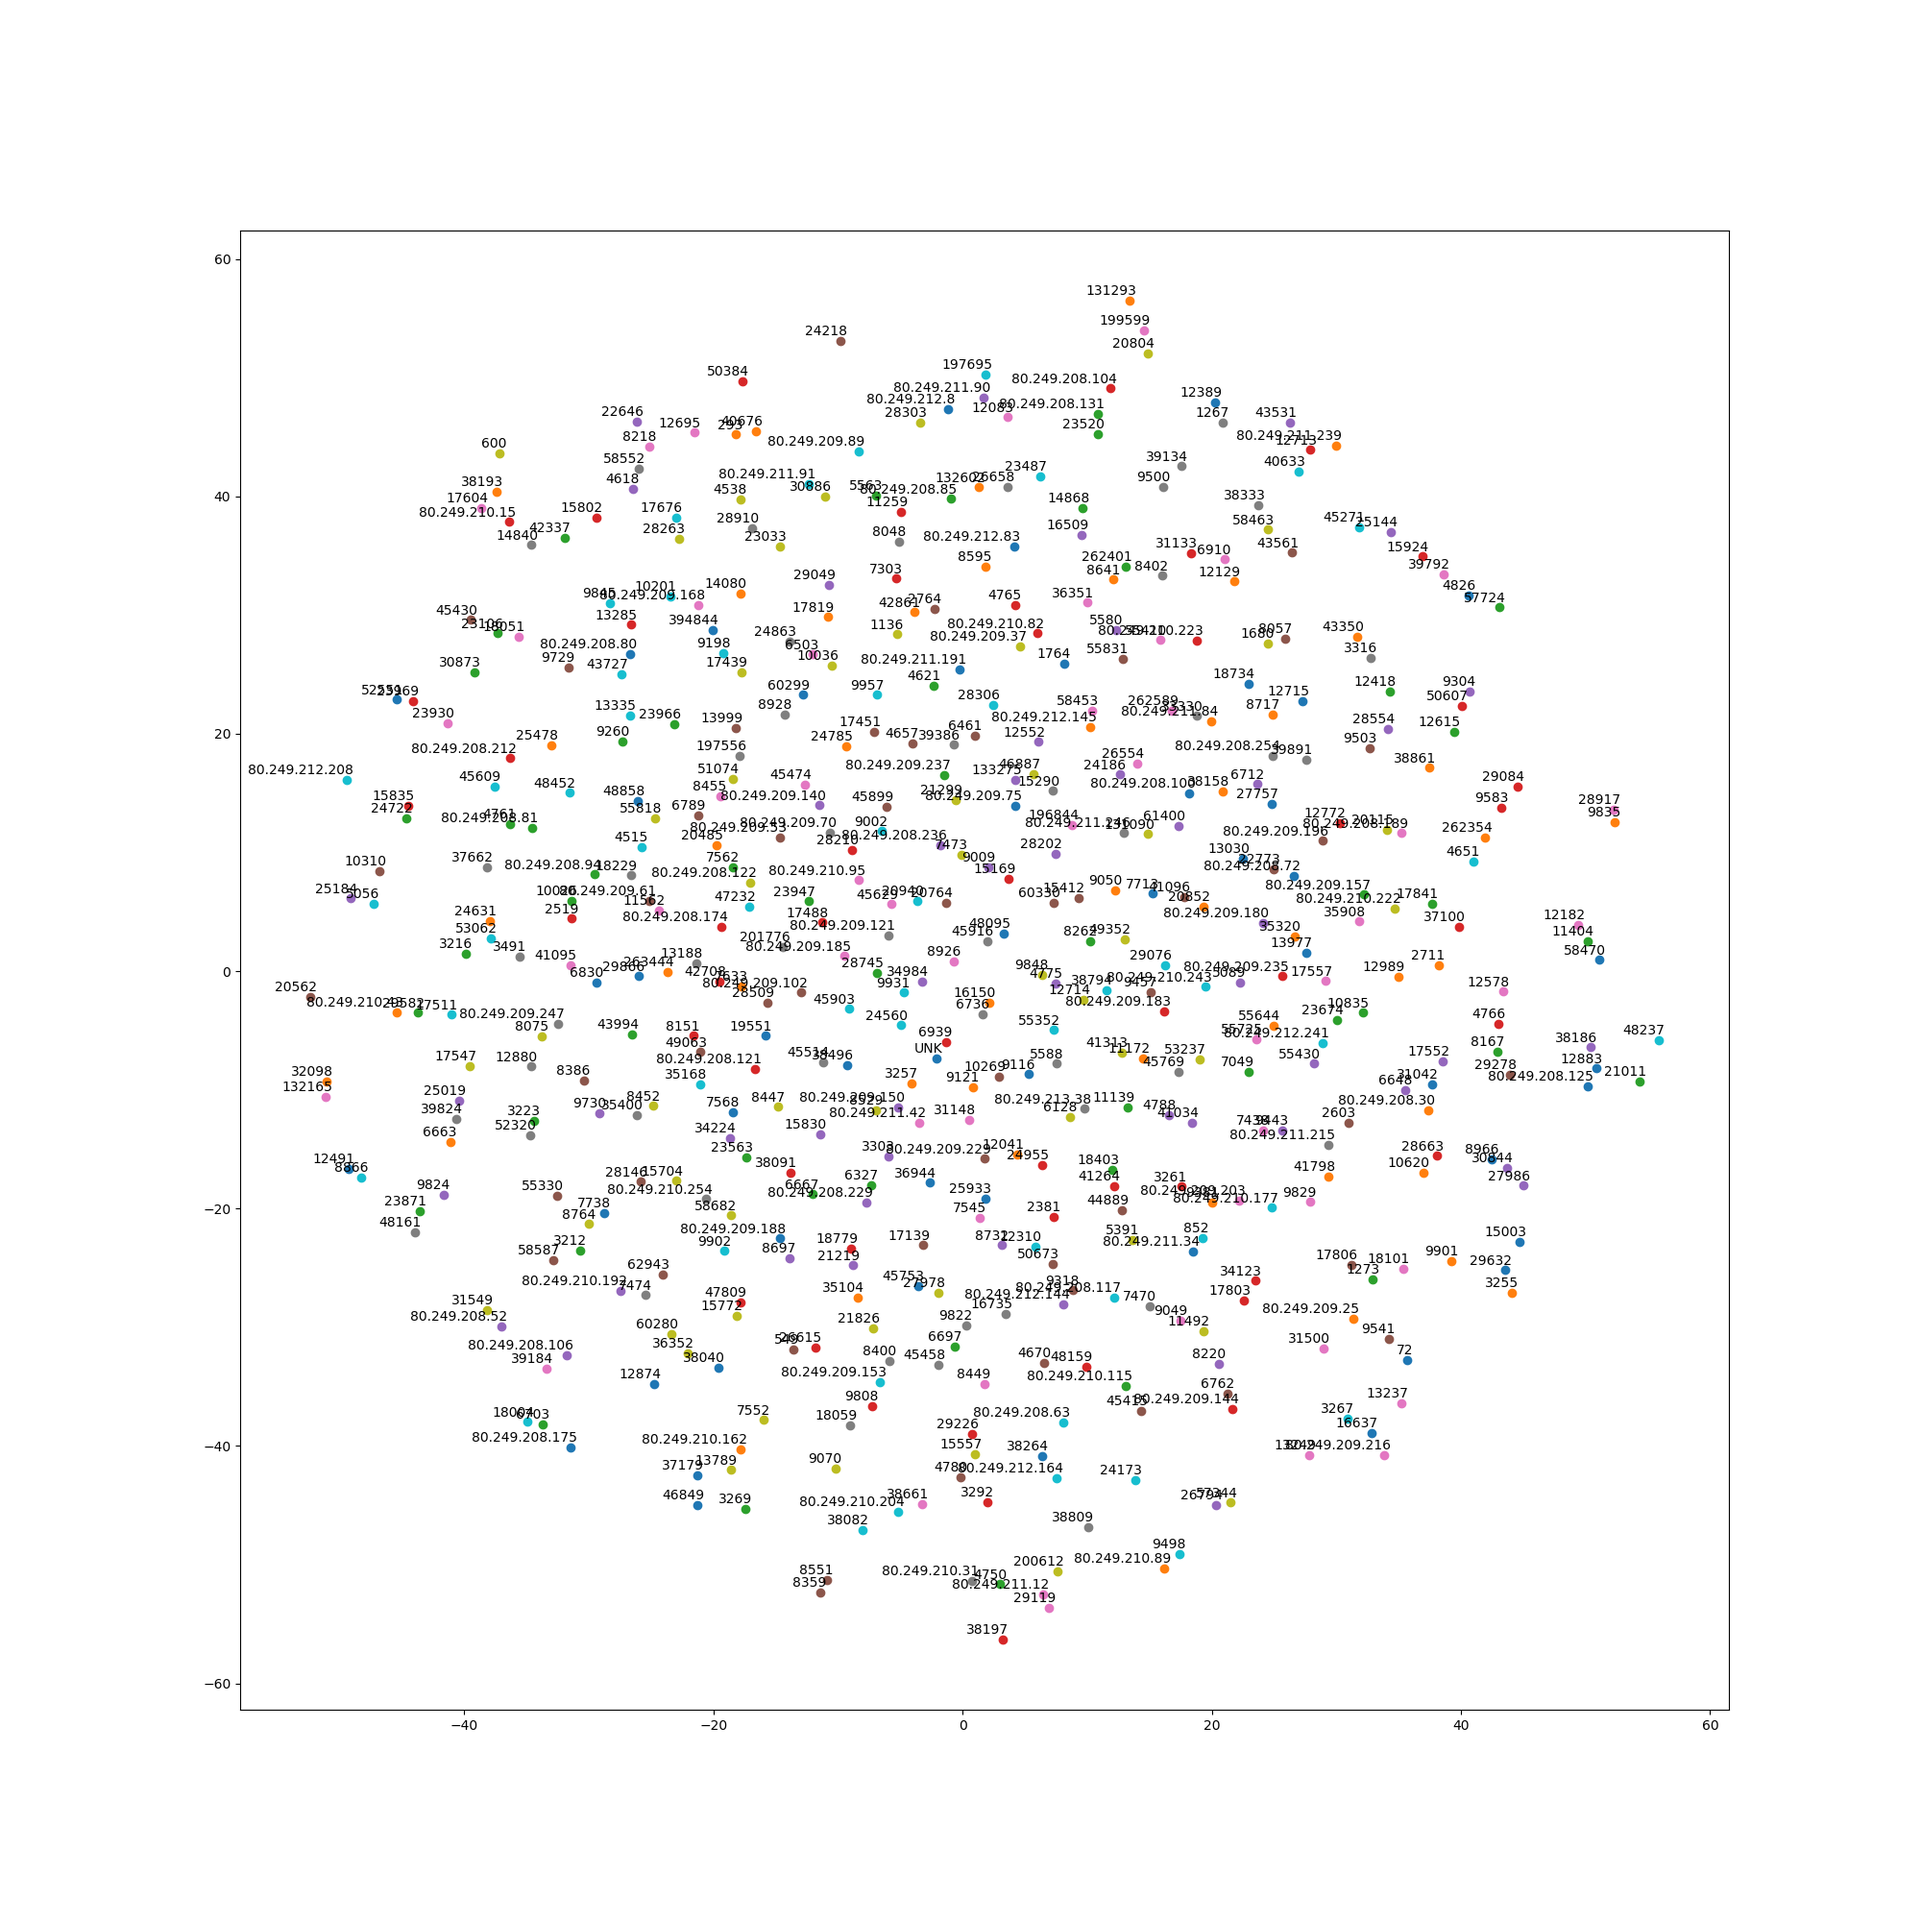
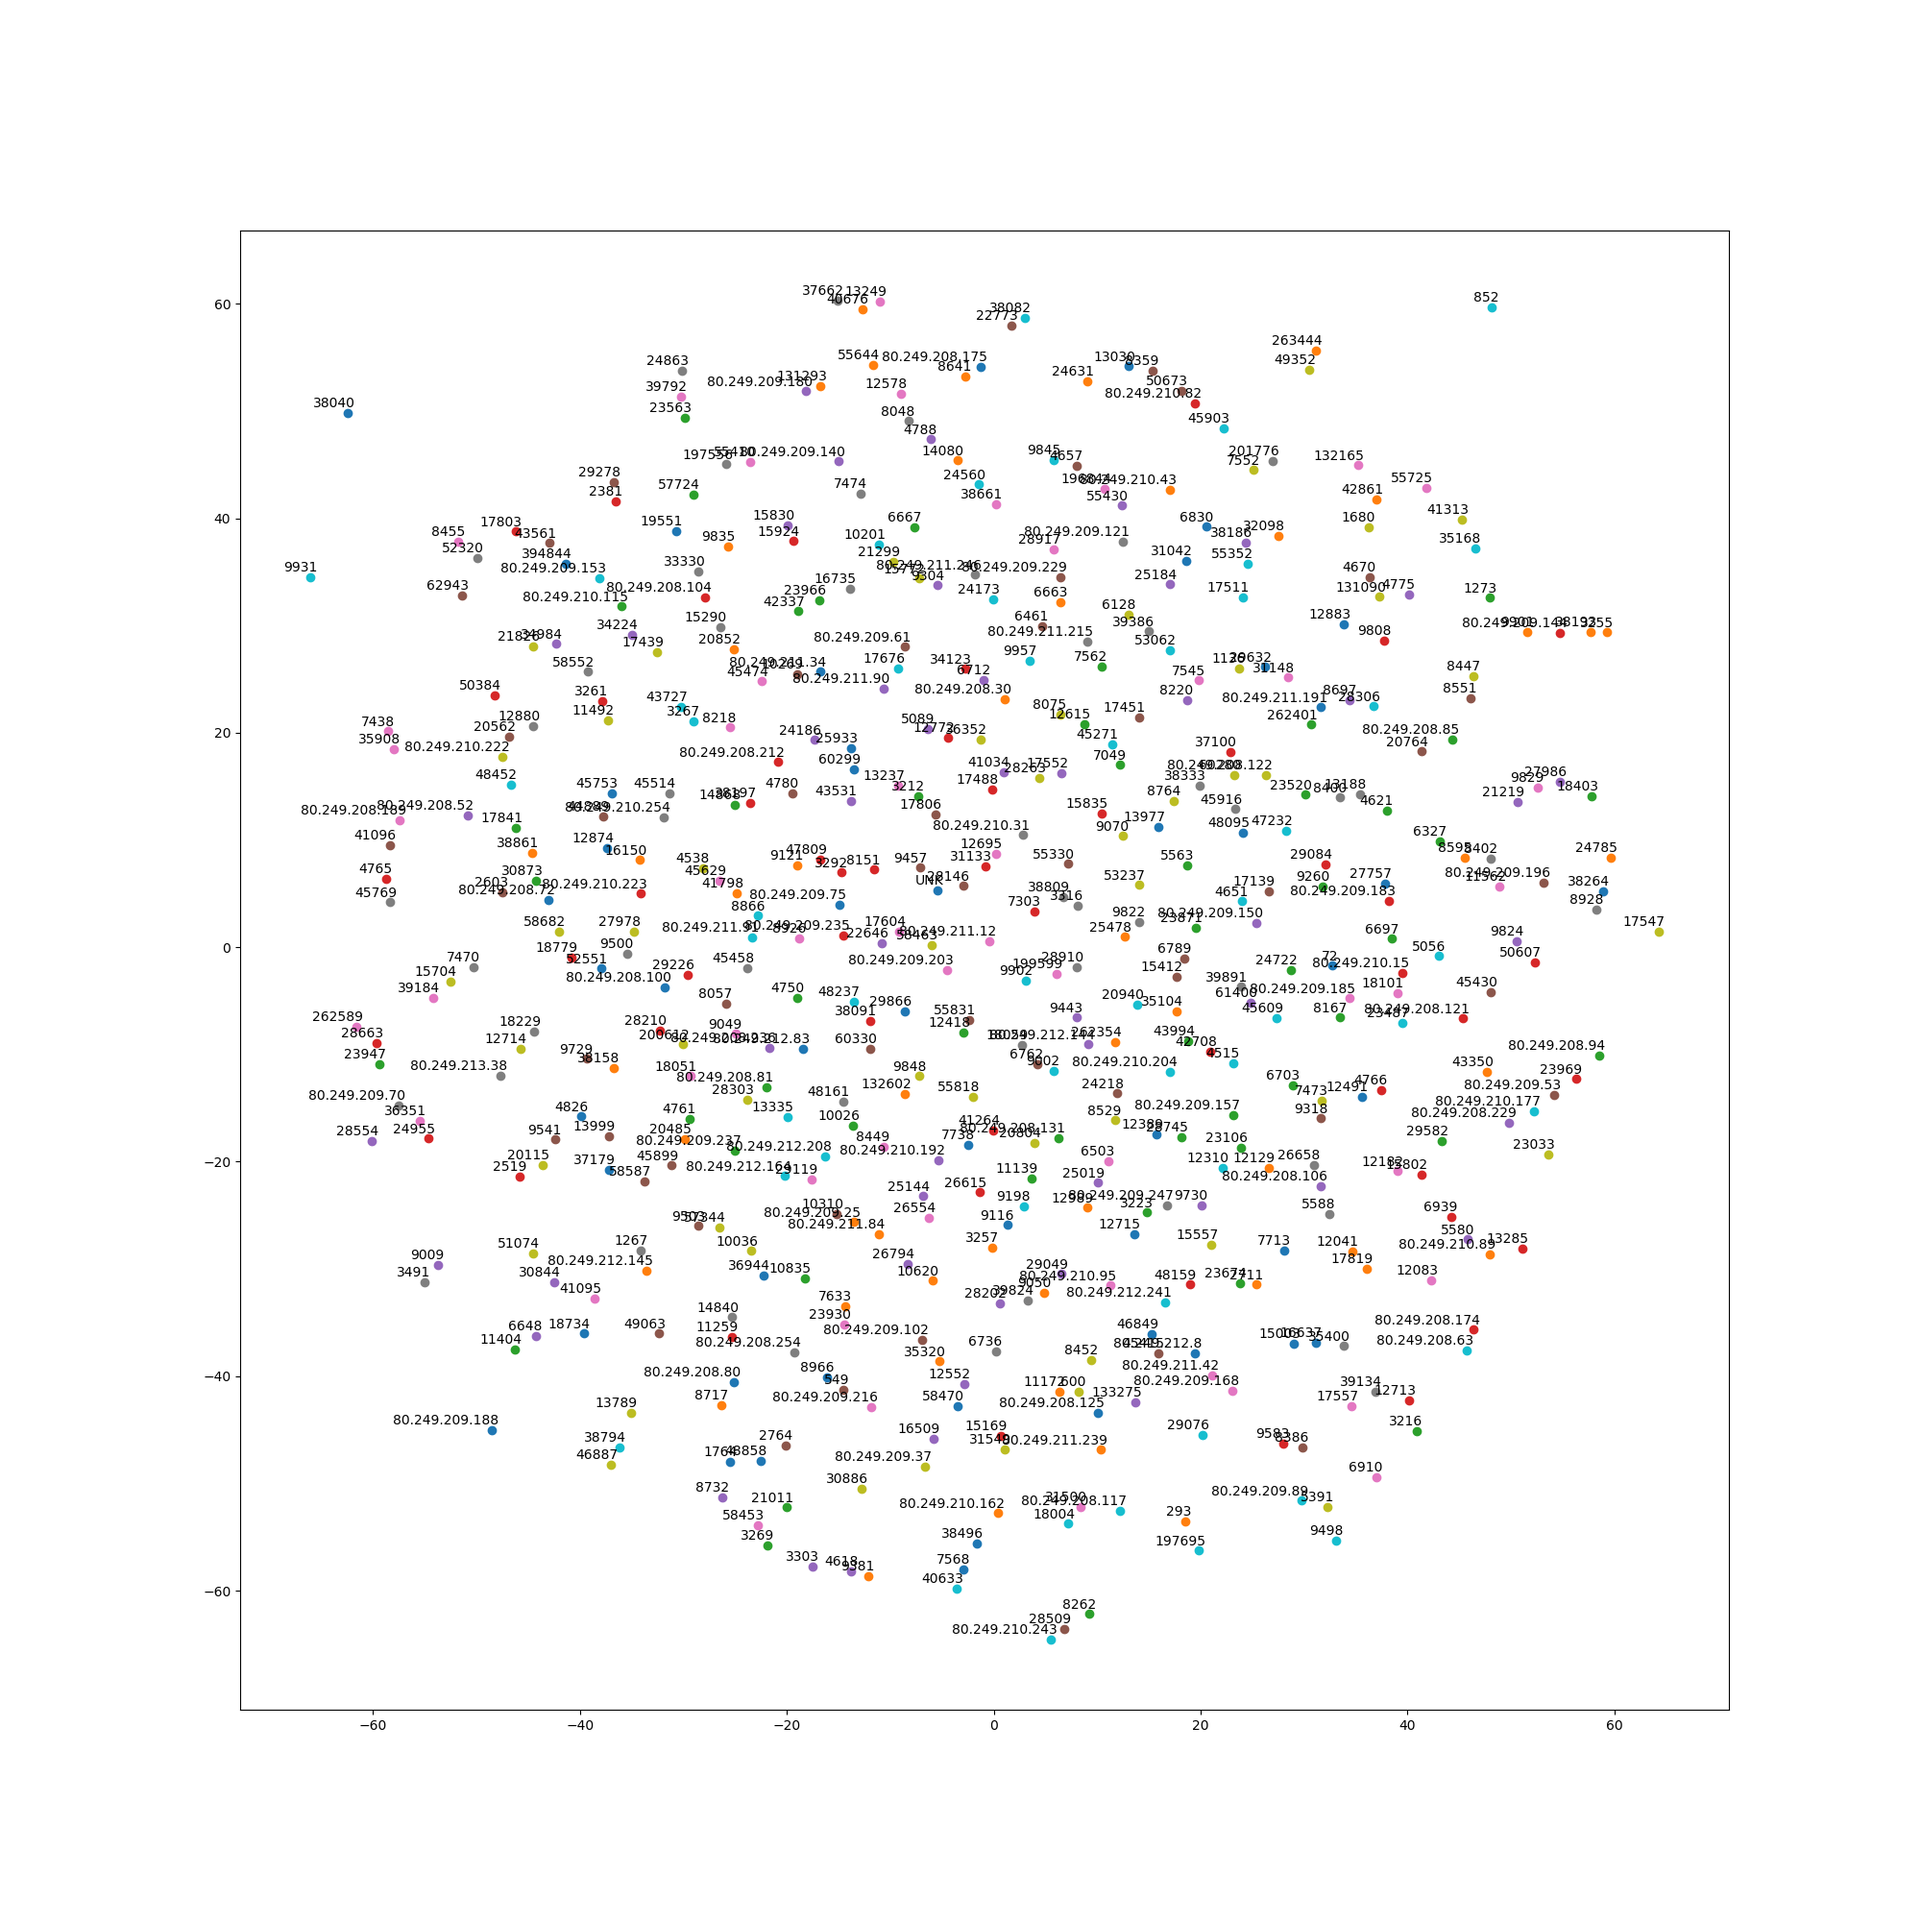
temp changes before moving to gcp

Changed region(s): [[0.155, 0.155, 0.868, 0.868], [0.775, 0.31, 0.837, 0.341], [0.186, 0.62, 0.217, 0.651]]

diff --git a/Practice/word2vec_basic.py b/Practice/word2vec_basic.py
@@ -65,20 +65,23 @@ vocabulary = read_data(filename)
 print('Data size', len(vocabulary))
 
 # Step 2: Build the dictionary and replace rare words with UNK token.
-vocabulary_size = 50000
+vocabulary_size = 100000
 
 
 def build_dataset(words, n_words):
 	"""Process raw inputs into a dataset."""
 	count = [['UNK', -1]]
+	#count = [[]]
 	count.extend(collections.Counter(words).most_common(n_words - 1))
 	dictionary = dict()
+	#print(count)
 	for word, _ in count:
 		dictionary[word] = len(dictionary)
 	data = list()
 	unk_count = 0
 	for word in words:
 		index = dictionary.get(word, 0)
+		#print(word,index)
 		if index == 0:  # dictionary['UNK']
 			unk_count += 1
 		data.append(index)
@@ -129,9 +132,9 @@ def generate_batch(batch_size, num_skips, skip_window):
 	return batch, labels
 
 batch, labels = generate_batch(batch_size=8, num_skips=2, skip_window=1)
-for i in range(8):
-	print(batch[i], reverse_dictionary[batch[i]],
-				'->', labels[i, 0], reverse_dictionary[labels[i, 0]])
+#for i in range(8):
+#	print(batch[i], reverse_dictionary[batch[i]],
+#				'->', labels[i, 0], reverse_dictionary[labels[i, 0]])
 
 # Step 4: Build and train a skip-gram model.
 
@@ -204,7 +207,7 @@ with graph.as_default():
 	init = tf.global_variables_initializer()
 
 # Step 5: Begin training.
-num_steps = 30000
+num_steps = 15000
 
 with tf.Session(graph=graph) as session:
 	# We must initialize all variables before we use them.
@@ -222,25 +225,25 @@ with tf.Session(graph=graph) as session:
 		_, loss_val = session.run([optimizer, loss], feed_dict=feed_dict)
 		average_loss += loss_val
 
-		if step % 1000 == 0:
+		if step % 200 == 0:
 			if step > 0:
-				average_loss /= 1000
+				average_loss /= 200
 			# The average loss is an estimate of the loss over the last 2000 batches.
 			print('Average loss at step ', step, ': ', average_loss)
 			average_loss = 0
 
 		# Note that this is expensive (~20% slowdown if computed every 500 steps)
-		if step % 10000 == 0: #500 == 0:#
-			sim = similarity.eval()
-			for i in xrange(valid_size):
-				valid_word = reverse_dictionary[valid_examples[i]]
-				top_k = 4#8  # number of nearest neighbors
-				nearest = (-sim[i, :]).argsort()[1:top_k + 1]
-				log_str = 'Nearest to %s:' % valid_word
-				for k in xrange(top_k):
-					close_word = reverse_dictionary[nearest[k]]
-					log_str = '%s %s,' % (log_str, close_word)
-				print(log_str)
+		#if step % 10000 == 0: #500 == 0:#
+		#	sim = similarity.eval()
+		#	for i in xrange(valid_size):
+		#		valid_word = reverse_dictionary[valid_examples[i]]
+		#		top_k = 4#8  # number of nearest neighbors
+		#		nearest = (-sim[i, :]).argsort()[1:top_k + 1]
+		#		log_str = 'Nearest to %s:' % valid_word
+		#		for k in xrange(top_k):
+		#			close_word = reverse_dictionary[nearest[k]]
+		#			log_str = '%s %s,' % (log_str, close_word)
+		#		print(log_str)
 	final_embeddings = normalized_embeddings.eval()
 	"""
 	import sys
@@ -275,12 +278,12 @@ try:
 	# pylint: disable=g-import-not-at-top
 	from sklearn.manifold import TSNE
 	import matplotlib.pyplot as plt
-
+	print("final_embeddings size",final_embeddings.shape)
 	tsne = TSNE(perplexity=30, n_components=2, init='pca', n_iter=5000, method='exact')
 	plot_only = 500
 	low_dim_embs = tsne.fit_transform(final_embeddings[:plot_only, :])
 	labels = [reverse_dictionary[i] for i in xrange(plot_only)]
-	plot_with_labels(low_dim_embs, labels, os.path.join(os.getcwd(), str(filename+"_AdamOptimizer.png")))
+	plot_with_labels(low_dim_embs, labels, os.path.join(os.getcwd(), str(filename+"_"+str(num_steps)+".png")))
 
 except ImportError as ex:
 	print('Please install sklearn, matplotlib, and scipy to show embeddings.')
